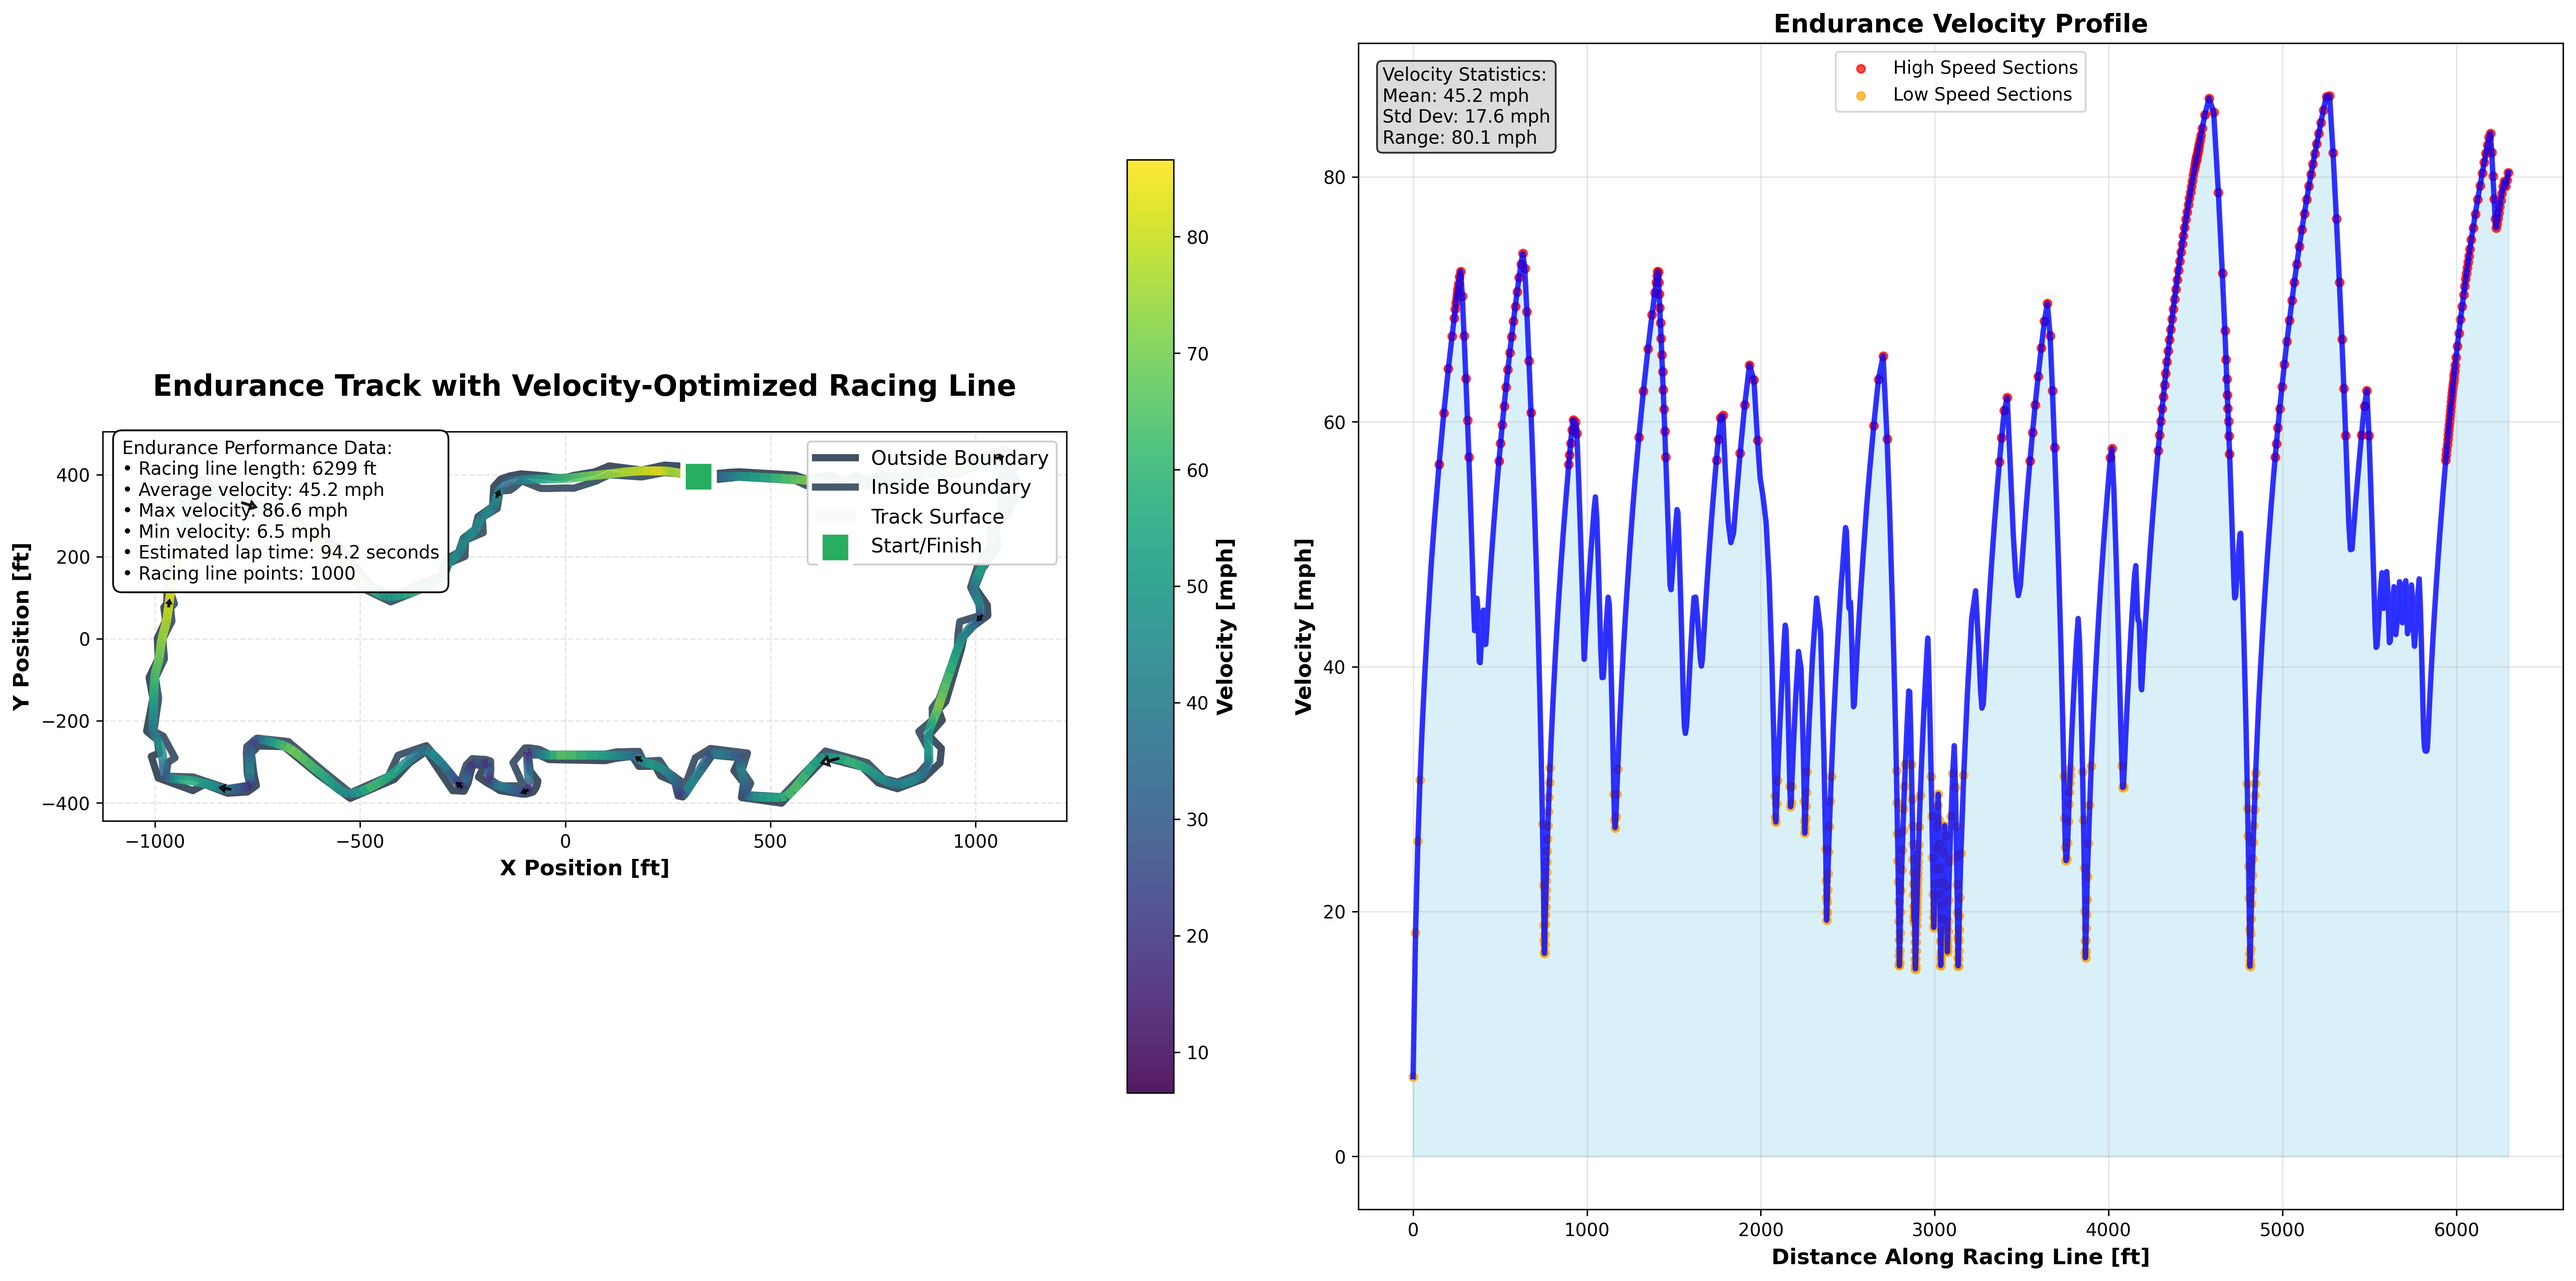
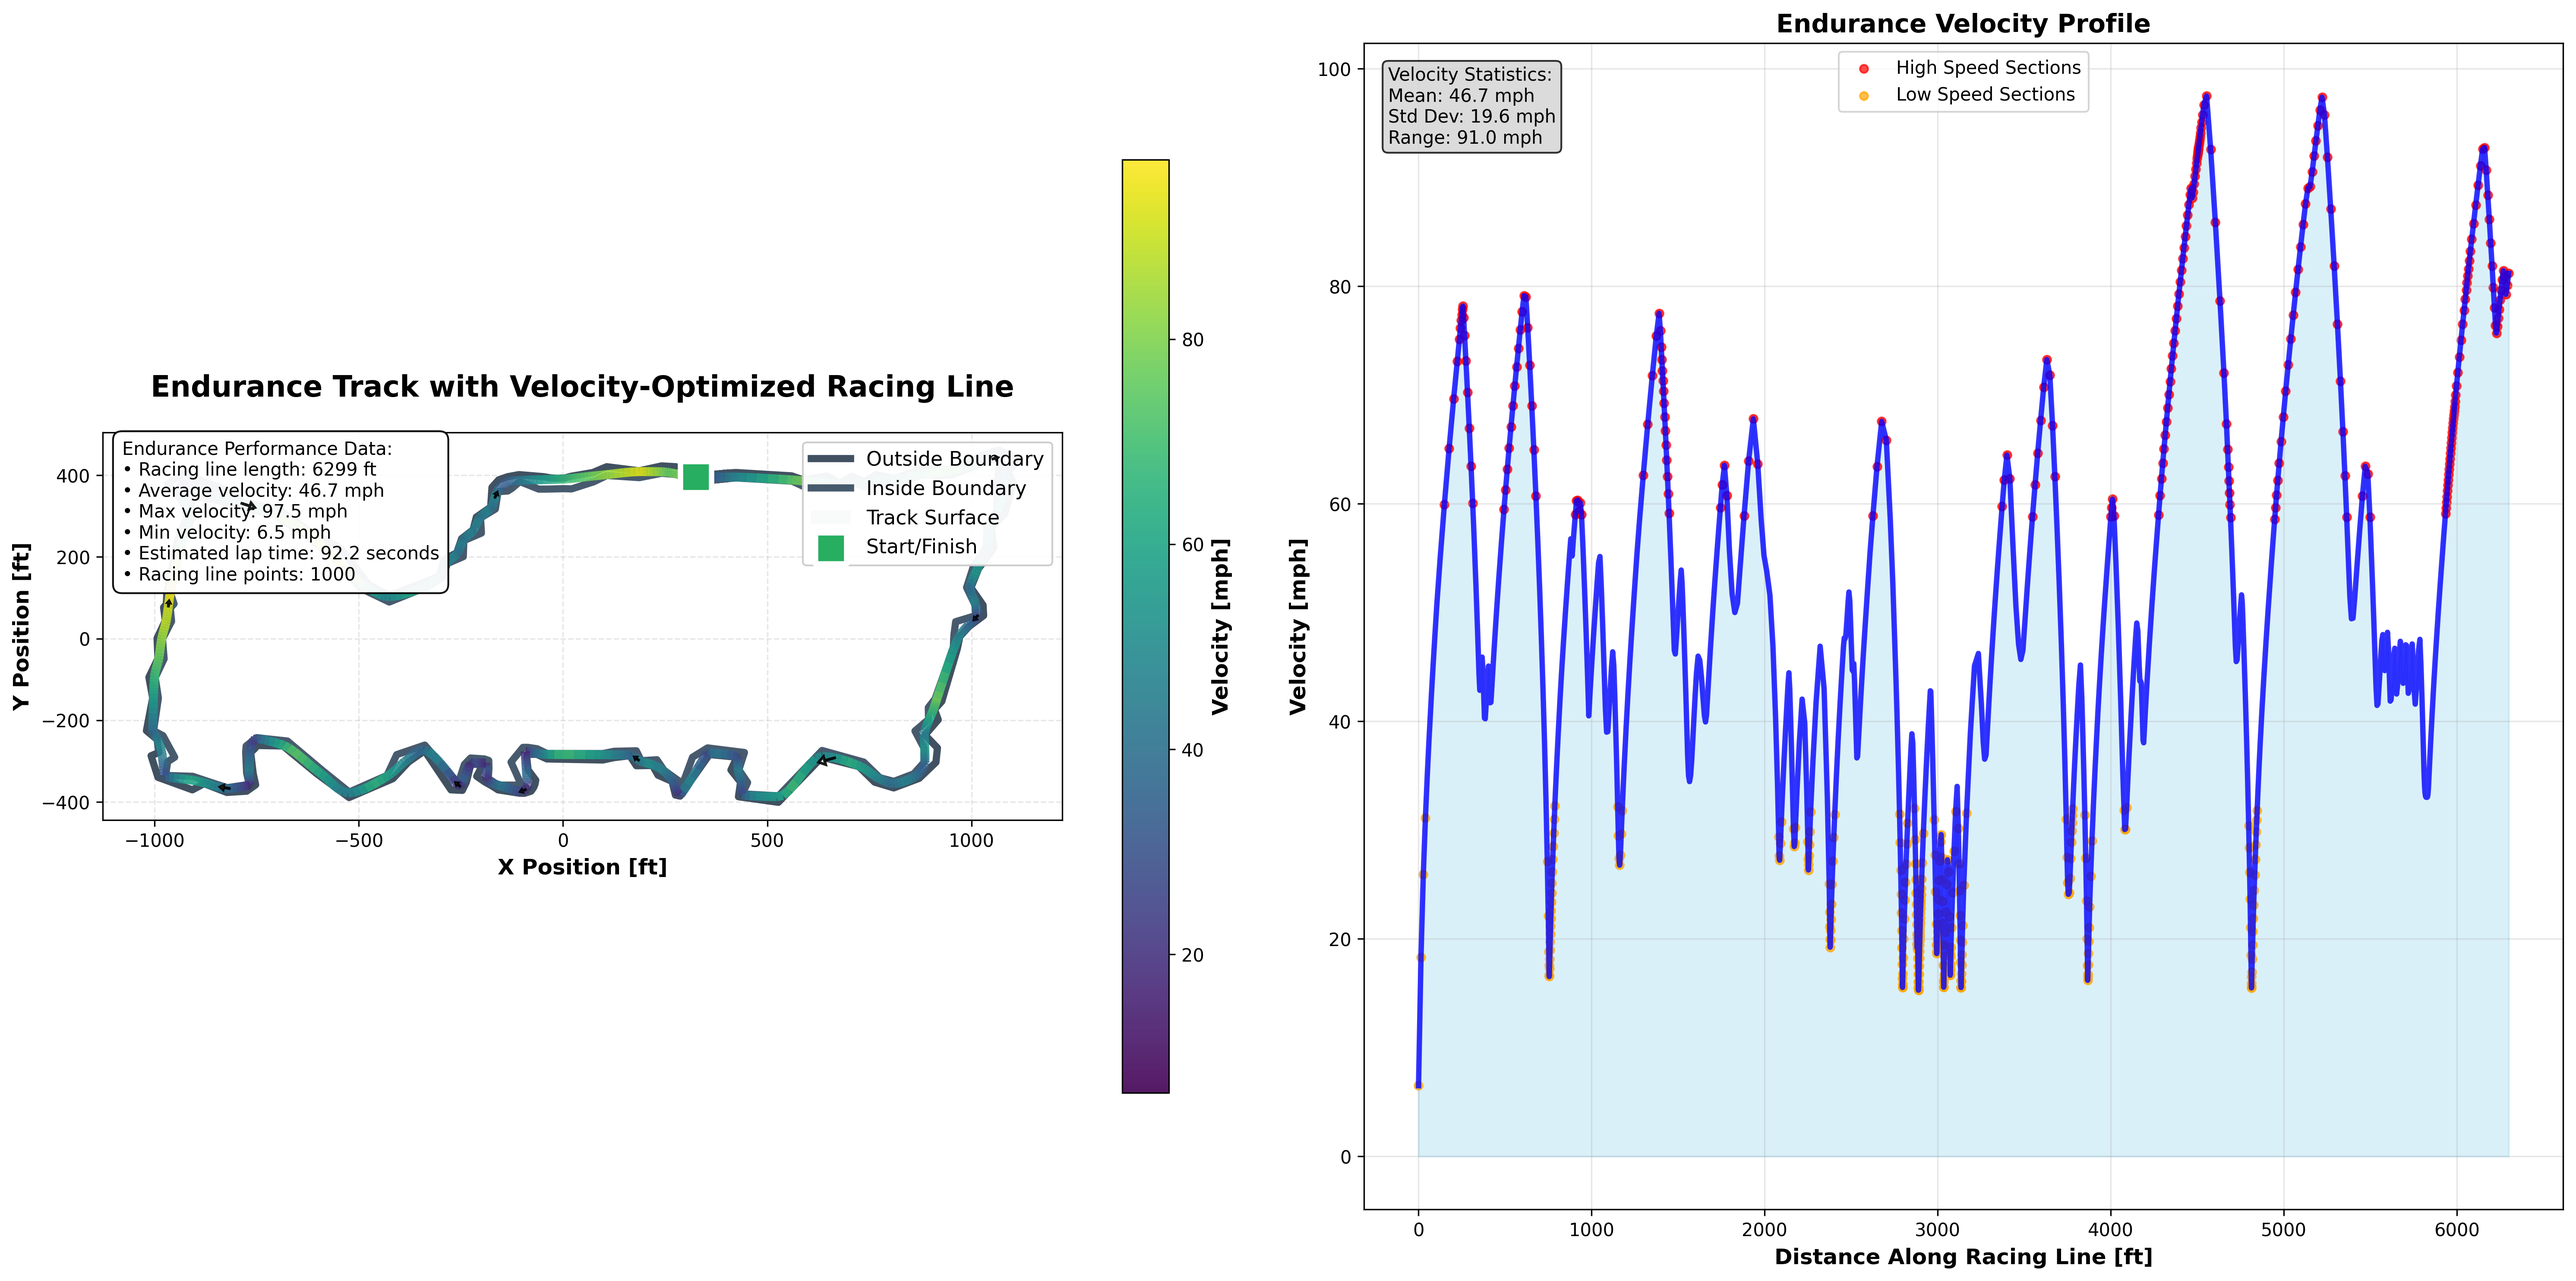
vehicle_config updated to match matlab

diff --git a/python/vehicle_config.py b/python/vehicle_config.py
@@ -12,14 +12,14 @@ All parameters use metric units (kg, m, N, etc.) unless otherwise specified.
 # VEHICLE MASS PROPERTIES
 # =============================================================================
 
-# Total vehicle mass including driver [kg]
-VEHICLE_MASS = 280.0
+# Total vehicle mass including driver [kg] (from MATLAB: 660 lbs)
+VEHICLE_MASS = 299.37  # 660 lbs converted to kg
 
-# Center of gravity position from front axle [m]
-CG_X_POSITION = 0.856
+# Center of gravity position from front axle [m] (calculated from MATLAB WDF = 44.754%)
+CG_X_POSITION = 0.856  # This gives 44.754% front weight distribution with 1.55m wheelbase
 
-# Center of gravity height above ground [m]  
-CG_HEIGHT = 0.267
+# Center of gravity height above ground [m] (from MATLAB: 10.5/12 ft)  
+CG_HEIGHT = 0.267  # 10.5/12 ft = 0.875 ft = 0.267 m
 
 # Vehicle weight [N] (calculated from mass)
 VEHICLE_WEIGHT = VEHICLE_MASS * 9.81
@@ -29,31 +29,31 @@ VEHICLE_WEIGHT = VEHICLE_MASS * 9.81
 # VEHICLE DIMENSIONS
 # =============================================================================
 
-# Wheelbase - distance between front and rear axles [m]
-WHEELBASE = 1.55
+# Wheelbase - distance between front and rear axles [m] (from MATLAB: 61/12 ft)
+WHEELBASE = 1.55  # 61/12 ft = 5.083 ft = 1.55 m
 
-# Track width - distance between left and right wheels [m]
-TRACK_WIDTH = 1.22
+# Track width - distance between left and right wheels [m] (average of front/rear)
+TRACK_WIDTH = 1.143  # Average of front (1.168m) and rear (1.118m)
 
-# Front track width [m] (if different from rear)
-TRACK_WIDTH_FRONT = 1.22
+# Front track width [m] (from MATLAB: 46/12 ft)
+TRACK_WIDTH_FRONT = 1.168  # 46/12 ft = 3.833 ft = 1.168 m
 
-# Rear track width [m] (if different from front)
-TRACK_WIDTH_REAR = 1.22
+# Rear track width [m] (from MATLAB: 44/12 ft)
+TRACK_WIDTH_REAR = 1.118  # 44/12 ft = 3.667 ft = 1.118 m
 
 
 # =============================================================================
 # AERODYNAMICS
 # =============================================================================
 
-# Frontal area [m²]
+# Frontal area [m²] (estimated from MATLAB aerodynamic coefficients)
 FRONTAL_AREA = 1.2
 
-# Drag coefficient [-]
-DRAG_COEFFICIENT = 1.1
+# Drag coefficient [-] (from MATLAB: Cd = 0.0184)
+DRAG_COEFFICIENT = 0.0184
 
-# Downforce coefficient [-]
-DOWNFORCE_COEFFICIENT = 2.5
+# Downforce coefficient [-] (from MATLAB: Cl = 0.0418)
+DOWNFORCE_COEFFICIENT = 0.0418
 
 # Air density [kg/m³]
 AIR_DENSITY = 1.225
@@ -84,8 +84,8 @@ ROLL_STIFFNESS_REAR_TOTAL = ROLL_STIFFNESS_REAR_SPRINGS + ROLL_STIFFNESS_REAR_AR
 # TIRE PARAMETERS
 # =============================================================================
 
-# Tire radius [m]
-TIRE_RADIUS = 9.05/12/3.28  # converted from inches
+# Tire radius [m] (from MATLAB: 9.05/12 ft)
+TIRE_RADIUS = 0.230  # 9.05/12 ft = 0.754 ft = 0.230 m
 
 # Tire width [m]
 TIRE_WIDTH = 0.18
@@ -106,15 +106,19 @@ TIRE_MF52_PARAMS = {
     'Sv': 0.0          # Vertical shift [-]
 }
 
+# Tire scaling factors (from MATLAB: sf_x = 0.6, sf_y = 0.47)
+TIRE_SCALING_LONGITUDINAL = 0.6   # sf_x - longitudinal friction scaling
+TIRE_SCALING_LATERAL = 0.47       # sf_y - lateral friction scaling
+
 
 # =============================================================================
 # POWERTRAIN CONFIGURATION
 # =============================================================================
 
-# Engine speed range [RPM]
+# Engine speed range [RPM] (from MATLAB: 6200:100:14100)
 ENGINE_SPEED_RANGE = list(range(6200, 14200, 100))
 
-# Engine torque curve [N-m] corresponding to speed range
+# Engine torque curve [N-m] corresponding to speed range (from MATLAB)
 ENGINE_TORQUE_CURVE = [
     41.57, 42.98, 44.43, 45.65, 46.44, 47.09, 47.52, 48.58, 49.57, 50.41, 
     51.43, 51.48, 51, 49.311, 48.94, 48.66, 49.62, 49.60, 47.89, 47.91, 
@@ -126,22 +130,22 @@ ENGINE_TORQUE_CURVE = [
     39.83, 38.60, 38.46, 37.56, 36.34, 35.35, 33.75, 33.54, 32.63, 31.63
 ]
 
-# Primary reduction ratio [-]
-PRIMARY_REDUCTION = 76/36
+# Primary reduction ratio [-] (from MATLAB: 76/36)
+PRIMARY_REDUCTION = 76/36  # = 2.111
 
-# Transmission gear ratios [-]
+# Transmission gear ratios [-] (from MATLAB)
 GEAR_RATIOS = [33/12, 32/16, 30/18, 26/18, 30/23, 29/24]
 
-# Final drive ratio [-]
-FINAL_DRIVE_RATIO = 40/12
+# Final drive ratio [-] (from MATLAB: 40/12)
+FINAL_DRIVE_RATIO = 40/12  # = 3.333
 
-# Shift point [RPM]
+# Shift point [RPM] (from MATLAB: 14000)
 SHIFT_POINT = 14000
 
-# Drivetrain efficiency [-]
+# Drivetrain efficiency [-] (from MATLAB: 0.85)
 DRIVETRAIN_EFFICIENCY = 0.85
 
-# Shift time [seconds]
+# Shift time [seconds] (from MATLAB: 0.25)
 SHIFT_TIME = 0.25
 
 
